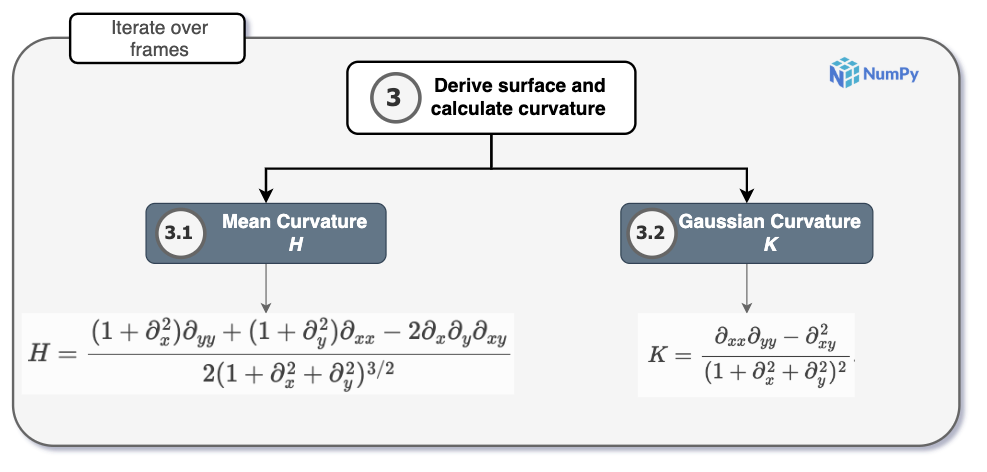
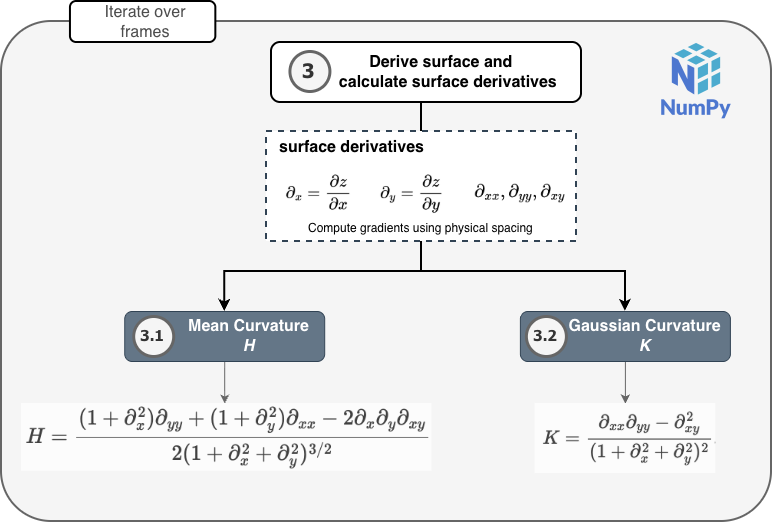
Docs: update algorithm description w/ figures (#139)
* Docs: update algorithm steps with figs.

Changed region(s): [[0.0, 0.0, 1.0, 1.0], [0.6437, 0.7415, 0.705, 0.7712]]

diff --git a/membrane_curvature/curvature.py b/membrane_curvature/curvature.py
@@ -28,6 +28,14 @@ two principal curvatures. Therefore, the default units of :math:`K` are Å\ :sup
 In general, units of mean curvature are [length] :sup:`-1`,
 and units of Gaussian curvature are [length] :sup:`-2`.
 
+.. note::
+
+    When spacing is provided to :func:`numpy.gradient` (for example, ``dx`` and
+    ``dy`` from the simulation box and grid definition), curvature calculations are
+    performed in physical units and are less sensitive to grid bin count than with
+    implicit unit spacing. However, results are not exactly bin-independent because
+    finite-difference discretization error increases for coarse grids.
+
 .. warning::
 
     Numpy cannot calculate the gradient for arrays with inner array of

diff --git a/docs/source/pages/Algorithm.rst b/docs/source/pages/Algorithm.rst
@@ -39,14 +39,33 @@ reference.
 2. Set grid
 -------------
 The dimensions of the grid are determined by the size of the simulation box
-contained in the :class:`~MDAnalysis.core.universe.Universe`. The grid comprises 
-``n_x_bins`` x ``n_y_bins`` number of bins.
+contained in the :class:`~MDAnalysis.core.universe.Universe`.
+The grid covers a rectangular domain in the membrane plane. By default that
+domain matches the `x` and `y` edges of the simulation box from MDAnalysis'
+:class:`~MDAnalysis.core.universe.Universe`.The grid comprises ``n_x_bins`` x 
+``n_y_bins`` bins along the `x` and `y` directions.
+
+For every atom in the :class:`~MDAnalysis.core.groups.AtomGroup` of reference,
+MembraneCurvature assigns it to a grid cell based on its `x` and `y` coordinates.
+In practice, each coordinate pair ``(x, y)`` is mapped to a grid location
+``[l, m]`` corresponding to a bin in the discretized membrane surface.
 
 |grid|
 
-For every atom in the :class:`~MDAnalysis.core.groups.AtomGroup` of reference, 
-MembraneCurvature assigns an index in the grid, according to their respective 
-`x` and `y` coordinates. i.e. ``(x, y) ↦ [l, m]``. 
+Here, :math:`L_x` and :math:`L_y` represent the size of the region covered by
+the grid along the `x` and `y` directions (i.e. the span of ``x_range`` and
+``y_range``). The spacing between grid points in each direction is then
+determined by dividing these lengths by the number of bins:
+
+.. math::
+
+   dx = \frac{L_x}{n_x\_bins}, \qquad dy = \frac{L_y}{n_y\_bins}
+
+These spacings are used in derivative calculations so that curvature is computed
+in physical units.
+
+Once the grid has been populated, the `z` coordinates of atoms assigned to each
+cell are collected to form a height field over the grid.
 
 .. note::
   Unless the user provides a different input, MembraneCurvature will determine
@@ -58,17 +77,24 @@ MembraneCurvature assigns an index in the grid, according to their respective
       grid_dimension_x = (0, universe.dimensions[0])
       grid_dimension_y = (0, universe.dimensions[1])
 
-Once the grid is populated according to the coordinates of the atoms in the
-AtomGroup of reference, the associated `z` coordinate of each atom in the AtomGroup 
-is stored in an array assigned to each ``[l, m]`` index.
-
 .. _derive-surface-curvature:
 
-3. Derive surface and calculate curvature
-------------------------------------------
+3. Derive surface and calculate surface derivatives
+---------------------------------------------------
 
-Once the surface formed by the atoms of reference is derived, values of mean (`H`)
-and Gaussian (`K`) curvature are calculated according to their respective equations.
+Once the surface formed by the atoms of reference is derived, mean (`H`) and
+Gaussian (`K`) curvature are calculated from its spatial derivatives. These
+derivatives are evaluated using the actual grid spacing (``dx``, ``dy``), so that changes
+in height are measured per unit distance in real space rather than per grid index.
+This makes curvature values physically meaningful and reduces their sensitivity
+to the chosen grid resolution.
+
+.. note::
+   Curvature is computed from surface derivatives evaluated using the grid spacing
+   (``dx``, ``dy``), ensuring results are expressed in physical units and are less
+   sensitive to grid resolution. Because the derivatives are computed numerically,
+   very coarse grids may still affect curvature estimates due to finite-difference
+   discretization error.
 
 For every frame of the trajectory, the surface derived from the 
 :class:`~MDAnalysis.core.groups.AtomGroup` is
@@ -97,11 +123,6 @@ mean, and Gaussian curvature are stored in the
 Each array has shape ``(n_x_bins, n_y_bins)``.
 
 |avg_frames|
-
-
-.. |grid_map| image:: ../_static/gridmap.png
-  :width: 400
-  :alt: GridMap
 
 .. |diagram| image:: ../_static/DiagramAlgorithm.png
   :width: 800
